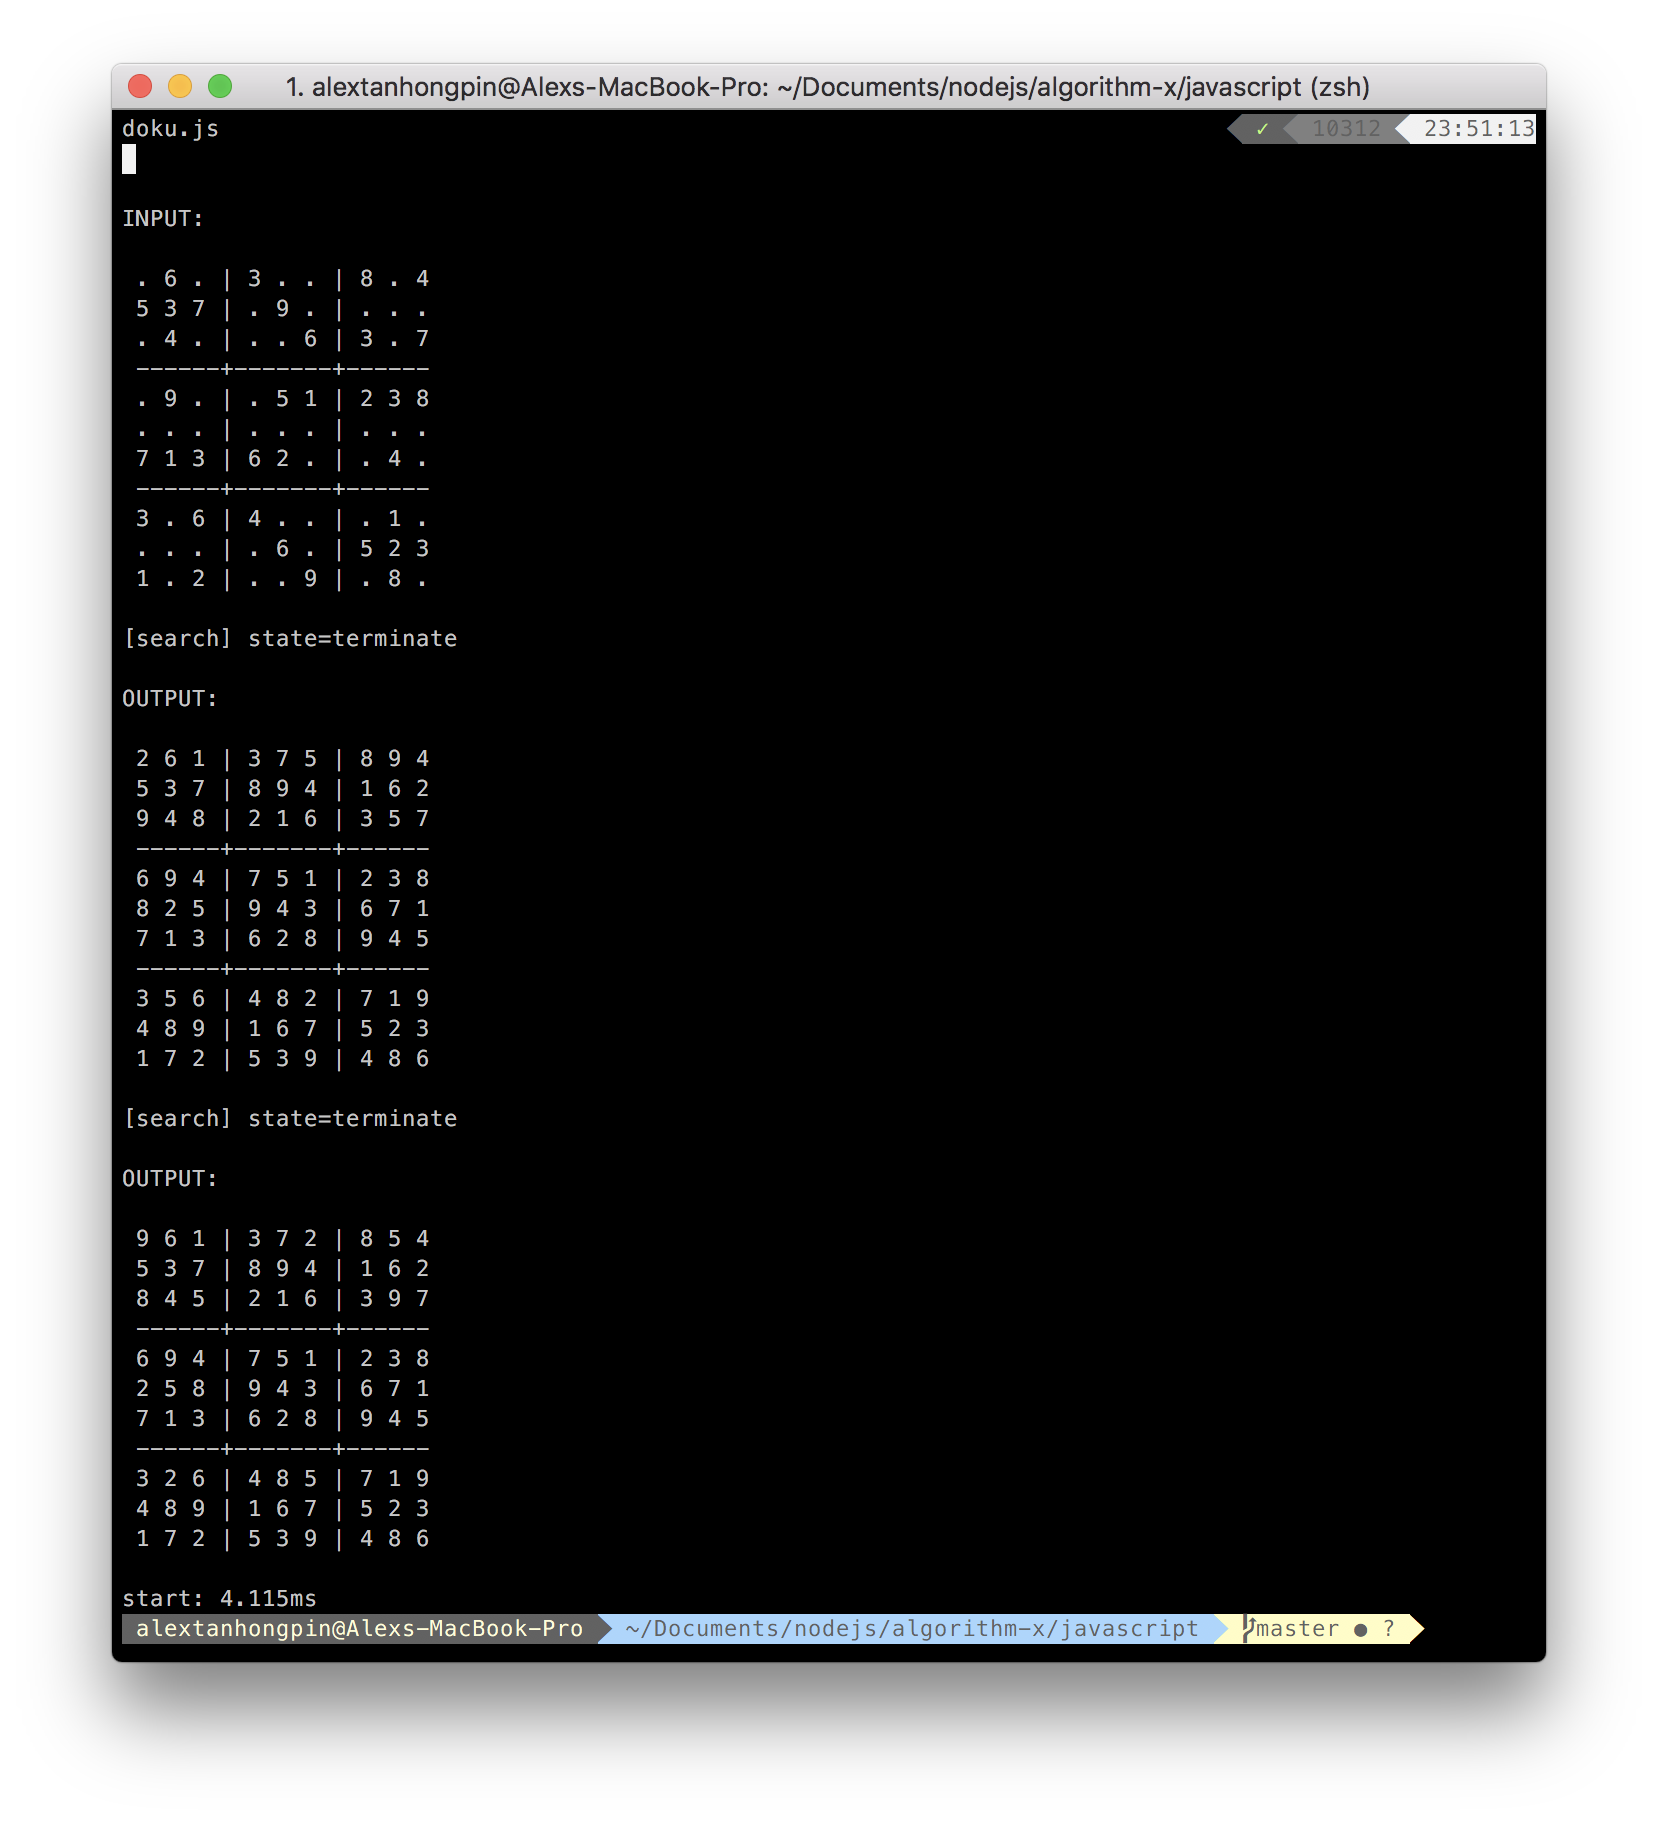
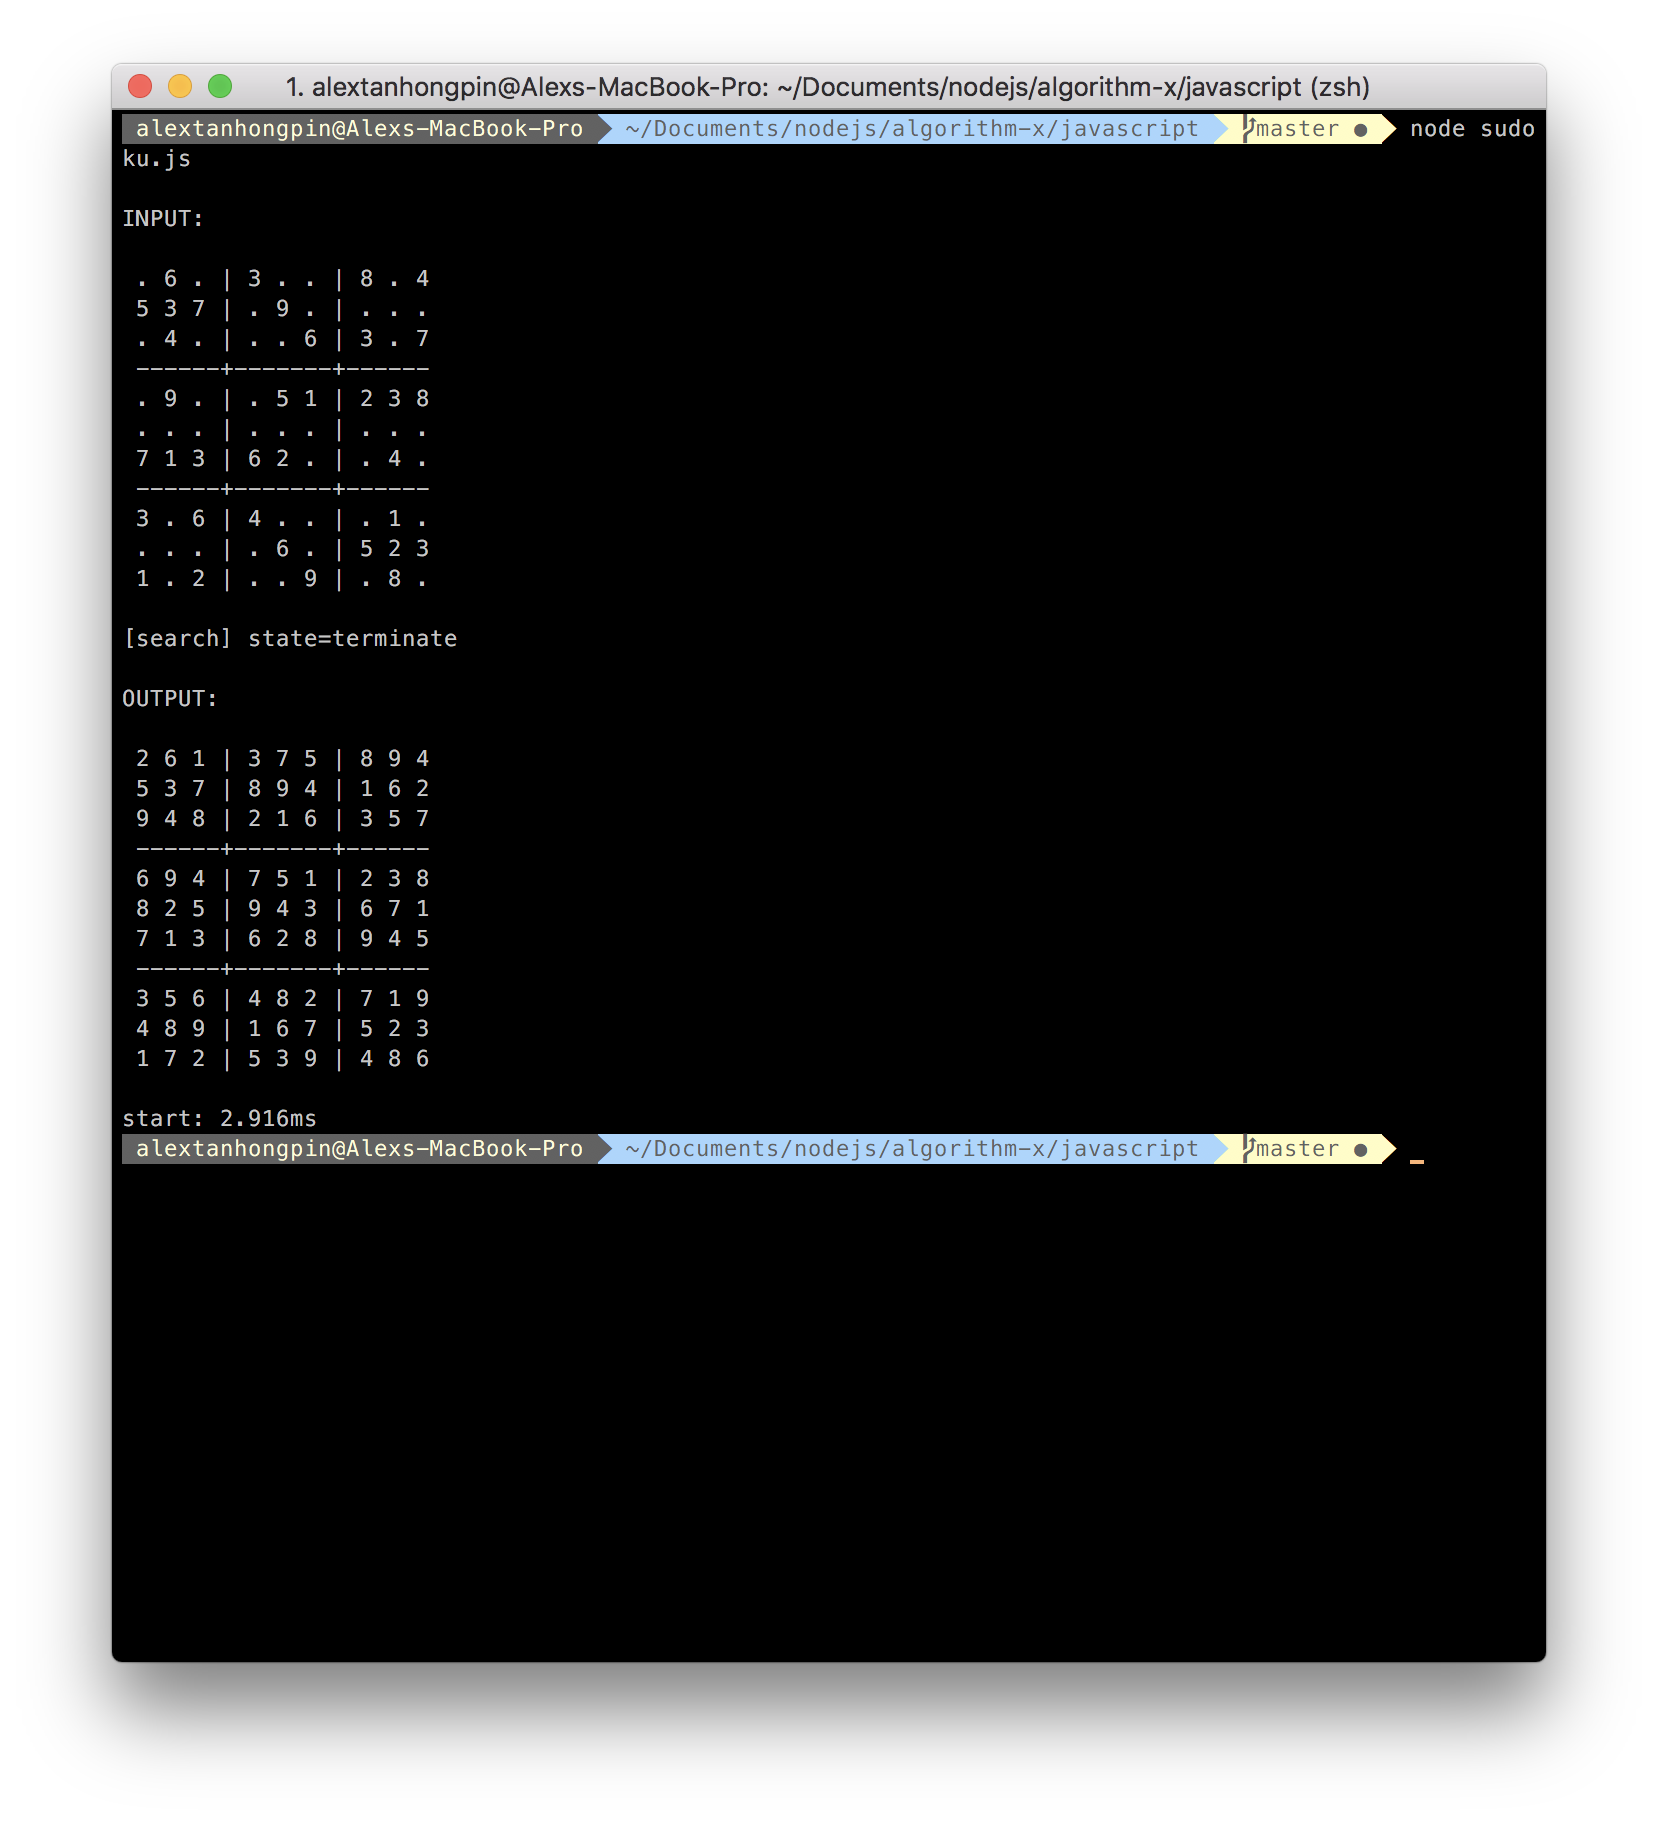
chore: fix box constraint

diff --git a/src/core.js b/src/core.js
@@ -170,7 +170,7 @@ function search (k = 0, h, s = [], printSolutionFn = printSolution) {
     for (let j = r.R; j !== r; j = j.R) {
       cover(j)
     }
-    search(k + 1, h, s, printSolutionFn)
+    if (search(k + 1, h, s, printSolutionFn)) return
 
     r = s.pop()
     c = r.C
@@ -242,7 +242,9 @@ function Constraints (S) {
       return col * S + (val - 1)
     },
     box (row, col, val) {
-      return col * S + (val - 1)
+      let r = 3 * Math.floor(row / 3)
+      let c = Math.floor(col / 3)
+      return (r + c) * S + (val - 1)
     }
   }
 }
